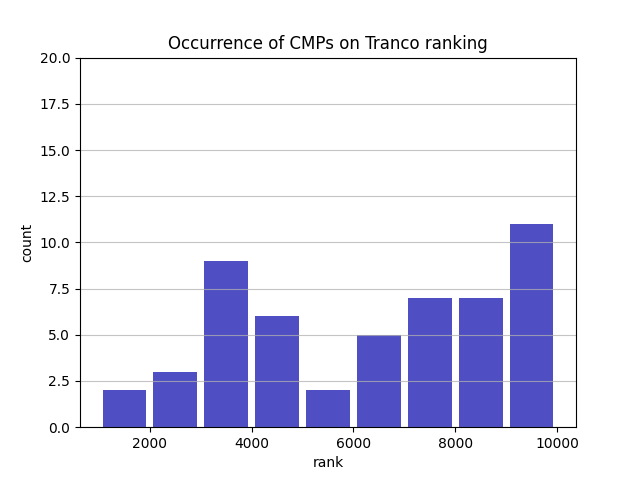
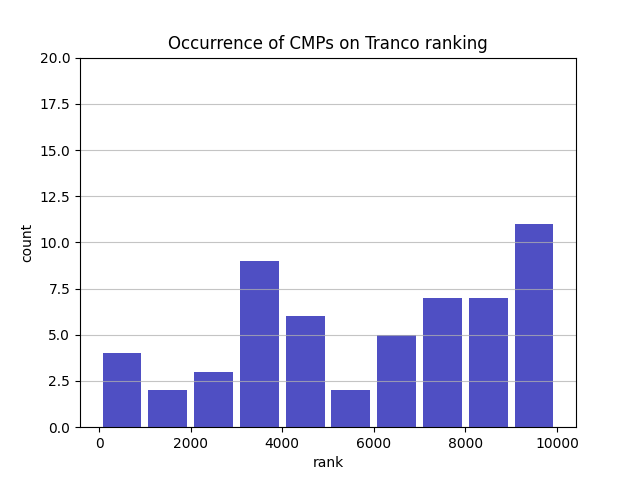
Add CMP histogram script stuff

Changed region(s): [[0.1562, 0.5312, 0.625, 0.9375], [0.625, 0.625, 0.75, 0.9375], [0.7812, 0.4688, 0.8125, 0.9062]]

diff --git a/histogram/CMP_histogram.py b/histogram/CMP_histogram.py
@@ -1,3 +1,5 @@
+# Copyright (C) 2021 Dino Bollinger, ETH Zürich, Information Security Group
+# Released under the MIT License
 """
 This is a script that takes the database of crawled websites (with the OpenWPM Consent Crawler),
 the ranking of Tranco domains, and then computes a histogram of how many websites contain a CMP
@@ -22,12 +24,12 @@ import matplotlib.pyplot as plt
 
 logger = logging.getLogger("main")
 cmp_types = [0, 1, 2]
-binrange_tiny = [*range(10, 110, 10)]
-binrange_small = [*range(100, 1100, 100)]
-binrange_medium = [*range(1000, 11000, 1000)]
-binrange_large = [*range(10000, 110000, 10000)]
-binrange_huge = [*range(10000, 1010000, 10000)]
-binrange_all = [*range(100000, 6100000, 100000)]
+binrange_tiny = [*range(0, 110, 10)]
+binrange_small = [*range(0, 1100, 100)]
+binrange_medium = [*range(0, 11000, 1000)]
+binrange_large = [*range(0, 110000, 10000)]
+binrange_huge = [*range(0, 1010000, 10000)]
+binrange_all = [*range(0, 6100000, 100000)]
 
 
 def cmp_query(i):
